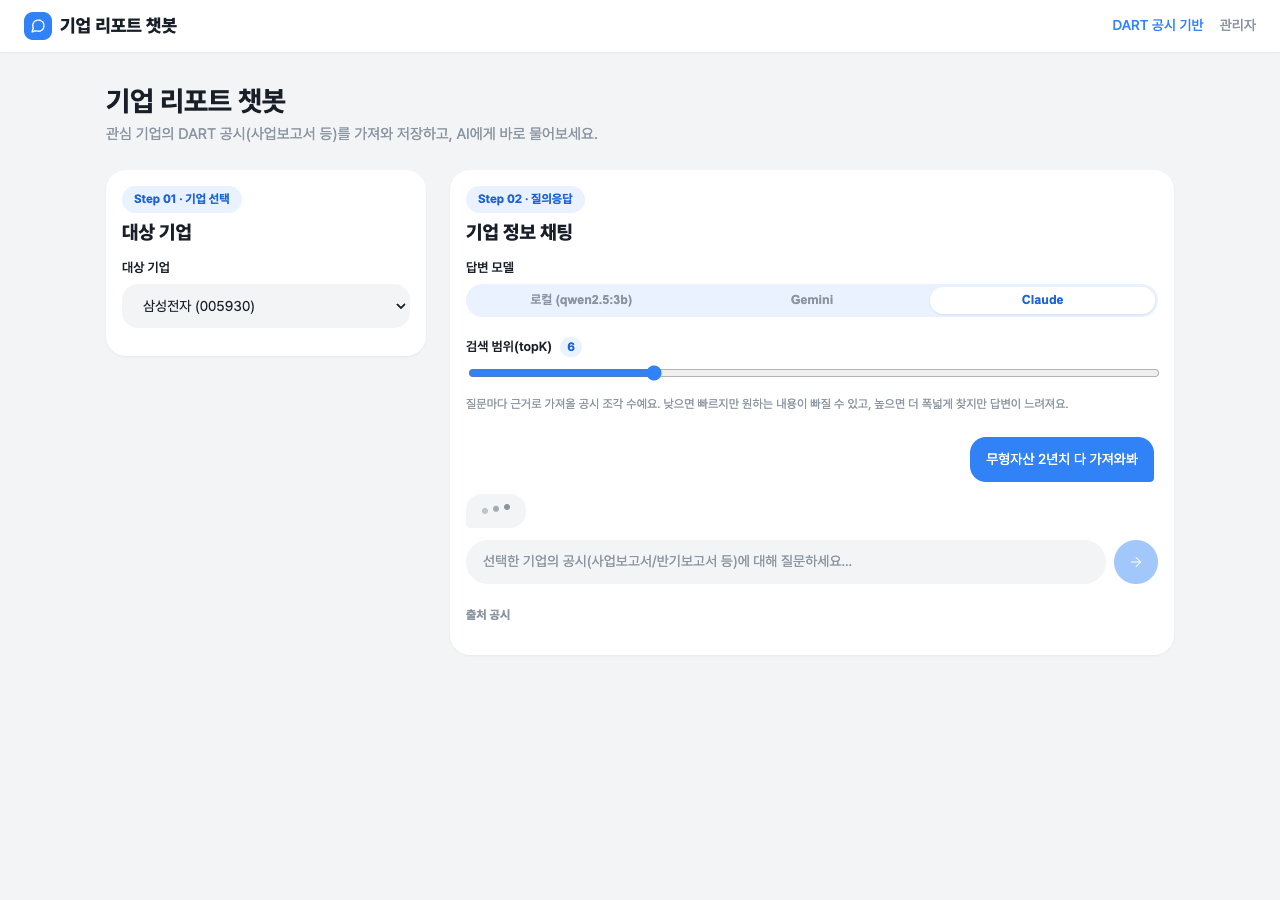
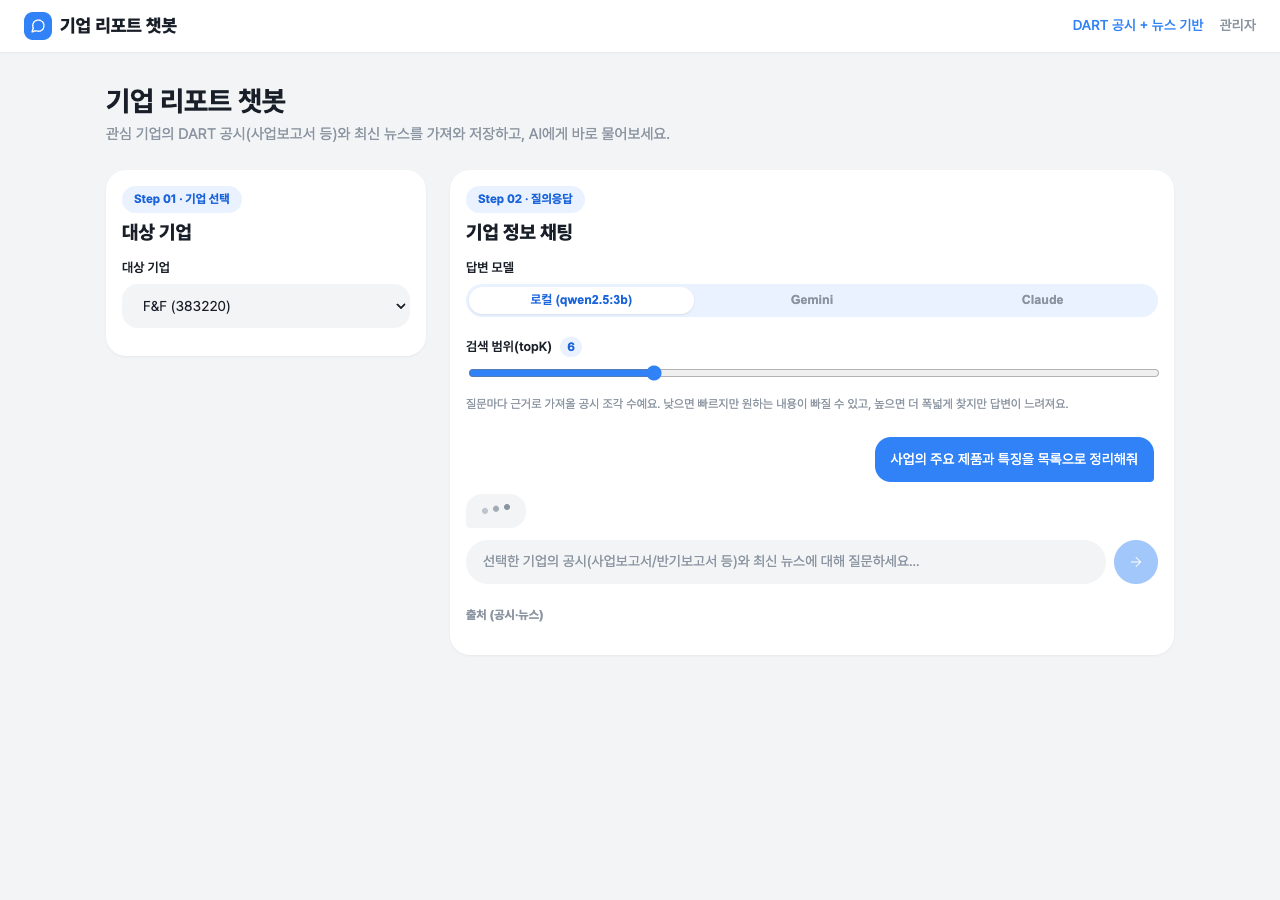
docs: README 텍스트 축약 및 스크린샷을 F&F 기준으로 교체
인트로/아키텍처/검색 전략/참고 섹션의 장문 설명을 불릿 위주로 압축하고,
스크린샷 5장을 전부 F&F 기준 화면으로 다시 캡처해 삼성전자 캡처를 제거.

diff --git a/README.md b/README.md
@@ -1,50 +1,38 @@
 # 기업 리포트 챗봇(RAG)
 
-DART 전자공시(사업보고서/반기보고서/분기보고서 + 지분공시)와 관련 뉴스 기사를 근거로
-관심 기업에 대해 질의응답하는 RAG 챗봇입니다. 워치리스트에 등록된 기업의 공시를 DART
-Open API에서, 뉴스는 네이버 뉴스 검색결과 페이지에서(공식 API 키 불필요) 가져와
-기업별로 분리된 벡터스토어(Neo4j)에 함께 색인하고, 채팅 시 해당 기업의 공시+뉴스
-내용만 근거로 답변합니다. 지분공시 제출인 관계와 뉴스 기사-언론사 관계는 같은 Neo4j에
-그래프로도 구성해서, 벡터 유사도 검색(Vector Retriever)만으로는 못 푸는 집계/랭킹/
-멀티홉 질문은 LLM이 그 자리에서 생성한 Cypher(Text2Cypher)로 답합니다. 대화 히스토리를
-참고해 후속 질문을 재작성하고, 로컬(Ollama)/Gemini/Claude(로그인된 Claude Code CLI)
-중 답변 모델을 선택해 품질을 비교할 수 있습니다. 답변은 표/목록/굵게 등이 그대로
-보이도록 마크다운으로 렌더링되고, 응답을 기다리는 동안에는 타이핑 인디케이터가
-표시됩니다.
+DART 전자공시(사업/반기/분기보고서 + 지분공시)와 관련 뉴스를 근거로 관심 기업에
+답변하는 RAG 챗봇입니다. 공시는 DART API, 뉴스는 네이버 검색결과 페이지(API 키
+불필요)에서 가져와 기업별 Neo4j 벡터 인덱스에 함께 저장합니다. 지분공시 제출인과
+뉴스 기사 관계는 그래프로도 저장해서, 벡터 검색(Vector Retriever)만으로 안 되는
+집계·랭킹 질문은 LLM이 즉석에서 만든 Cypher(Text2Cypher)로 답합니다. 로컬(Ollama)/
+Gemini/Claude 중 답변 모델을 골라 비교할 수 있고, 답변은 마크다운으로 렌더링됩니다.
 
 ## 사용 화면
 
 ![답변 모델(로컬/Gemini/Claude) 토글, 검색 범위(topK) 조절, 마크다운으로 렌더링된 답변(표/목록/굵게)](docs/screenshots/02-chat-controls.png)
 
-기업을 선택하고 최신 공시를 색인한 뒤, 선택한 기업의 공시 내용에 대해 자유롭게
-질문하면 답변과 함께 근거가 된 공시(회사명/보고서명/접수번호/섹션)를 보여줍니다.
-채팅창 상단에서 답변 모델(로컬 qwen2.5:3b / Gemini / Claude)과 검색 범위(topK)를
-직접 조절할 수 있고, 이전 대화는 브라우저에 저장되어 후속 질문에 참고됩니다. 답변에
-표나 목록이 포함되어 있으면 마크다운으로 그대로 렌더링됩니다.
+기업을 고르고 질문하면 답변과 함께 근거 공시(회사명/보고서명/접수번호/섹션)를
+보여줍니다. 답변 모델(로컬/Gemini/Claude)과 검색 범위(topK)를 조절할 수 있고,
+표/목록이 포함된 답변은 마크다운으로 렌더링됩니다.
 
 ![응답을 기다리는 동안 표시되는 타이핑 인디케이터](docs/screenshots/04-response-loading.png)
 
-질문을 보내면 답변이 도착하기 전까지 채팅창에 타이핑 인디케이터(점 3개)가 표시되어
-현재 답변을 생성 중임을 알려줍니다.
+답변 생성 중에는 타이핑 인디케이터(점 3개)가 표시됩니다.
 
 ![관리자 페이지 - DART 공시 자동 색인 및 저장된 데이터 확인](docs/screenshots/03-admin.png)
 
-관리자 페이지(`/admin.html`)에서는 워치리스트 전체 기업의 정기공시+지분공시를 한
-번에 가져오고, 실제로 Neo4j에 저장된 청크를 기업/유형별로 필터링해서 직접 확인할
-수 있습니다. PDF 직접 업로드와 지분공시 제출인/관련기업 그래프 탐색도 같은 페이지
-안에서 할 수 있습니다.
+관리자 페이지(`/admin.html`)에서 공시를 한 번에 가져오고, Neo4j에 저장된 청크를
+기업/유형별로 확인할 수 있습니다. PDF 업로드와 지분공시 그래프 탐색도 여기서.
 
 ![뉴스가 근거로 잡힌 채팅 답변 - 출처에 "뉴스" 태그와 클릭 가능한 기사 링크 표시](docs/screenshots/05-chat-news-sources.png)
 
-뉴스 관련 질문("갤럭시 S26 FE 가격 관련 뉴스 3개만 알려줘")을 하면 공시뿐 아니라
-색인된 실제 뉴스 기사가 근거로 잡히고, 출처 목록에서 뉴스 항목은 "뉴스" 태그와 함께
-원문 기사 URL이 새 탭으로 열리는 링크로 표시됩니다.
+뉴스 질문("F&F 디스커버리 관련 뉴스 3개만 알려줘")을 하면 실제 뉴스 기사가
+근거로 잡히고, 출처에 "뉴스" 태그와 원문 링크가 함께 표시됩니다.
 
 ![관리자 페이지 - 색인 데이터 뷰어를 "뉴스" 유형으로 필터링한 화면, 기사 URL이 클릭 가능한 링크로 표시됨](docs/screenshots/06-admin-news-viewer.png)
 
-관리자 페이지의 "저장된 데이터 보기"에서 유형을 "뉴스"로 필터링하면 색인된 기사
-목록(언론사/제목/발행일/본문 미리보기)을 확인할 수 있고, 기사 URL도 링크로 클릭해
-원문으로 바로 이동할 수 있습니다.
+유형을 "뉴스"로 필터링하면 색인된 기사 목록을 확인하고, URL을 클릭해 원문으로
+바로 이동할 수 있습니다.
 
 ## 아키텍처
 
@@ -62,33 +50,17 @@ flowchart LR
     BE <-- "③ 임베딩 · 답변 생성" --> LLM
 ```
 
-색인 단계(①)는 DART 공시와 네이버 뉴스를 가져와 청크로 쪼갠 뒤 Neo4j에 저장하고,
-채팅 단계(②③)는 질문을 임베딩해 Neo4j에서 근거를 찾고(필요하면 Cypher도 생성해서
-그래프까지 탐색) LLM으로 답변을 만듭니다. 아래는 각 단계를 조금 더 풀어서 설명한
-흐름입니다 — 세부 클래스명이 궁금할 때만 참고하면 됩니다.
-
-색인 흐름: DART에서 공시 원문(XML)을 받아 목차 단위로 분해 → 기업/공시 메타데이터를
-태깅 → 토큰 단위로 청킹 → 기업별로 분리된 Neo4j 라벨/인덱스(`CompanyReportChunk_{corpCode}`)에
-저장. 지분공시(대량보유상황보고서, 임원·주요주주소유보고서)는 별도로 제출인(Filer)-공시(Report)-
-기업(Company) 그래프에도 기록됩니다. 같은 공시 파일은 해시로 비교해 변경이 없으면
-재색인하지 않습니다(DART API 일일 호출 제한 대응).
-
-뉴스 색인 흐름: 워치리스트 기업명으로 네이버 뉴스 검색결과 페이지를 직접 파싱해
-(`NaverSearchScraper`, 공식 API 키 불필요) 기사 URL을 모으고, 기사 페이지에서 본문을
-크롤링(`NaverArticleScraper`)해 청킹한 뒤 **같은 기업 전용 벡터 인덱스에 `doc_type=NEWS`로
-합류**시킵니다 — 별도 인덱스가 아니라 정기공시/지분공시 청크와 같은 라벨을 공유해서,
-채팅 시 공시와 뉴스가 함께 검색 후보가 됩니다. 기사-언론사-기업 관계는 지분공시 그래프와
-같은 `Company` 노드를 재사용해 Neo4j에 함께 기록되고, 기사 URL을 유일키로 한 사이드카
-파일(`data/news-index.json`)로 중복 수집을 막습니다.
-
-채팅 흐름: 브라우저에 저장된 최근 대화가 있으면 먼저 LLM으로 후속 질문을 독립형 질문으로
-재작성 → 해당 기업 전용 벡터 인덱스에서 유사도 검색(**Vector Retriever**, 다른 기업
-데이터가 섞이지 않음, "뉴스"/"기사" 키워드가 있으면 `doc_type=NEWS`로 필터링) →
-집계·랭킹·멀티홉처럼 고정 조회로 못 푸는 그래프 질문이면 LLM이 그 자리에서 Cypher를
-생성해 읽기 전용으로 실행(**Text2Cypher**, 실패/미해당 시 최근 지분공시 제출인 고정
-조회로 폴백) → 두 근거를 합쳐 답변 생성. 로컬(Ollama qwen2.5:3b), Gemini, Claude(로그인된
-`claude -p` CLI를 서브프로세스로 호출 — API 키 불필요, claude.ai 구독 계정 로그인 그대로
-사용) 중 선택해서 같은 질문의 답변 품질을 비교할 수 있습니다.
+- **① 공시·뉴스 수집**: DART 공시(XML)는 목차 단위로 분해, 뉴스는 네이버 검색결과·
+  기사 페이지를 파싱(API 키 불필요)해서 본문을 가져옵니다. 둘 다 청킹 후 같은 기업
+  전용 Neo4j 인덱스에 저장되고(뉴스는 `doc_type=NEWS`로 구분), 지분공시 제출인/뉴스
+  기사-언론사 관계는 그래프로도 함께 기록됩니다. 변경 없는 공시·이미 수집한 기사
+  URL은 재수집하지 않습니다.
+- **② 검색**: 질문을 임베딩해 기업 전용 인덱스에서 유사도 검색(Vector Retriever,
+  뉴스 키워드면 `doc_type=NEWS`로 필터). 집계·랭킹처럼 벡터 검색만으로 안 되는
+  그래프 질문이면 LLM이 즉석에서 Cypher를 생성해 실행(Text2Cypher), 실패하면 고정
+  조회로 폴백합니다.
+- **③ 답변**: 대화 히스토리가 있으면 먼저 후속 질문을 독립형으로 재작성한 뒤, 위
+  검색 결과를 근거로 로컬(Ollama)/Gemini/Claude 중 선택한 모델이 답변을 생성합니다.
 
 ## 그래프 DB 스키마
 
@@ -115,31 +87,21 @@ graph LR
   연결, 실제 본문이 담긴 벡터 청크 노드에 `HAS_CHUNK`(본문 청크)로 연결
 - **Media (언론사)**: 언론사, `Article`에 `PUBLISHED`(보도했다)로 연결
 
-이 스키마는 `CompanyChatService`의 Text2Cypher 라우터 프롬프트에 그대로 포함되어,
-LLM이 스키마를 보고 직접 Cypher를 생성합니다.
+이 스키마는 Text2Cypher 라우터 프롬프트에 그대로 포함되어 LLM이 보고 Cypher를 생성합니다.
 
 ## 검색 전략: Vector Retriever + Text2Cypher
 
-[graphrag-tools-retriever](https://github.com/gongwon-nayeon/graphrag-tools-retriever)의 `ToolsRetriever`(Vector /
-VectorCypher / Text2Cypher를 통합해 질문에 맞는 검색 방식을 고르는 구조)에서 아이디어를
-가져와, 이 프로젝트는 매 질문마다 두 가지 검색을 함께 수행하고 그 결과를 합쳐서
-답변합니다.
+[graphrag-tools-retriever](https://github.com/gongwon-nayeon/graphrag-tools-retriever)의
+`ToolsRetriever`(검색 방식을 통합하는 구조)에서 아이디어를 가져와, 매 질문마다 두
+검색을 함께 씁니다.
 
-1. **Vector Retriever** — 질문(또는 재작성된 후속 질문)을 임베딩해 기업 전용 Neo4j
-   벡터 인덱스에서 코사인 유사도 상위 topK개 청크를 가져옵니다. 공시와 뉴스 청크가 같은
-   인덱스에 섞여 있어서, "뉴스"/"기사"/"언론" 키워드가 있으면 `doc_type='NEWS'`
-   메타데이터 필터를 추가로 겁니다. (Neo4j 벡터스토어의 필터는 ANN 검색 이후 후보군에
-   대한 post-filter라, 필터가 걸릴 땐 후보군을 200개로 넉넉히 가져온 뒤 원하는 개수만큼
-   잘라 씁니다 — 안 그러면 상위 topK 후보에 뉴스 청크가 하나도 안 걸려 필터 후 0건이
-   되는 경우가 있습니다.)
-2. **Text2Cypher** — 위 벡터 검색과 별개로, 답변에 쓰기로 선택된 LLM(local/gemini/
-   claude)에게 그래프 스키마와 질문을 주고 Cypher 쿼리를 생성시킵니다. 집계·랭킹·비교·
-   교집합·역방향 조회처럼 벡터 유사도만으로 못 푸는 질문(예: "지분공시를 가장 많이 낸
-   제출인은?")에 쓰이고, 그래프 탐색이 필요 없으면 LLM이 `NONE`을 반환합니다. 생성된
-   쿼리는 읽기 전용 세션(`AccessMode.READ`)으로만 실행되고, 쓰기 구문(`CREATE`/`MERGE`/
-   `DELETE`/`SET`/`LOAD CSV` 등)이 섞여 있으면 정규식으로 걸러 실행하지 않습니다. 쿼리
-   생성/실행이 실패하거나 결과가 없으면 최근 지분공시 제출인 목록(`findFilers` 고정
-   조회)으로 안전하게 폴백합니다.
+1. **Vector Retriever** — 질문을 임베딩해 기업 전용 인덱스에서 유사도 상위 topK개
+   청크 조회. "뉴스/기사" 키워드가 있으면 `doc_type='NEWS'` 필터를 추가로 걸되, Neo4j
+   필터가 ANN 검색 이후 적용되는 post-filter라 후보군을 넉넉히(200개) 가져온 뒤 잘라
+   씁니다(안 그러면 후보에 뉴스가 하나도 안 걸려 0건이 될 수 있음).
+2. **Text2Cypher** — 집계·랭킹처럼 벡터 검색만으로 안 되는 그래프 질문이면 LLM이
+   스키마를 보고 Cypher를 생성해 읽기 전용으로 실행. 쓰기 구문은 정규식으로 차단하고,
+   생성 실패나 결과 없음이면 고정 조회(`findFilers`)로 폴백합니다.
 
 ## 기술 스택
 
@@ -325,27 +287,20 @@ frontend/
 
 ## 참고
 
-- 워치리스트는 `WatchedCompany.ALL`에 하드코딩되어 있습니다 (현재: 삼성전자, F&F).
-  다른 기업을 추가하려면 DART 고유번호(`corp_code`)를 찾아 목록에 추가하면 됩니다.
-- DART `document.xml` 원본만 다루며, `pdf.do`(브라우저 세션 기반 비공개 엔드포인트)는
-  API로 안정적으로 받을 수 없어 지원하지 않습니다.
-- 대화 히스토리는 브라우저 IndexedDB에 기업(corp_code)별로 저장됩니다. 브라우저
-  데이터를 지우거나 다른 브라우저/기기로 접속하면 히스토리는 보이지 않습니다(서버에는
-  저장하지 않음).
-- qwen2.5:3b는 3B급 소형 모델이라 후속 질문 재작성/답변 품질이 완벽하지 않을 수
-  있습니다 — 이럴 때 Gemini/Claude 옵션으로 같은 질문을 비교해보는 용도입니다.
-- Claude 옵션은 매 질문마다 `claude -p` 프로세스를 새로 띄우기 때문에 로컬/Gemini
-  보다 느립니다(수 초~수십 초). 또 별도 API 과금이 아니라 이 CLI가 로그인된
-  claude.ai 계정의 사용량(플랜 한도)을 그대로 씁니다.
-- 뉴스는 네이버 공식 뉴스검색 API(클라우드 플랫폼 키 발급) 대신 검색결과/기사 페이지를
-  직접 파싱합니다 — API 키 없이 바로 쓸 수 있지만, 네이버가 페이지 구조를 바꾸면
-  셀렉터(`NaverSearchScraper`/`NaverArticleScraper`)를 다시 손봐야 할 수 있습니다.
-- 뉴스 수집은 기업당 최근 `news.articles-per-company`(기본 20)건까지만 가져오고,
-  이미 색인된 기사 URL은 `data/news-index.json`에 기록해 재수집 시 건너뜁니다.
-- `GET /api/admin/indexed-chunks`가 반환하는 `textPreview`는 본문 앞 200자만 잘라서
-  보여주는 미리보기입니다. 실제 청크 본문 전체는 Neo4j에 그대로 저장되어 있고,
-  채팅 답변 생성 시에는 전체 청크 텍스트가 근거로 쓰입니다.
-- 이 프로젝트의 뉴스 스크래핑 셀렉터와 그래프 스키마 설계는 참고 프로젝트
-  [graphrag-tools-retriever](https://github.com/gongwon-nayeon/graphrag-tools-retriever)
-  (네이버 뉴스 GraphRAG, Vector/VectorCypher/Text2Cypher 통합 `ToolsRetriever`)에서
+- 워치리스트는 `WatchedCompany.ALL`에 하드코딩(현재: 삼성전자, F&F). 기업 추가는
+  DART `corp_code`를 목록에 넣으면 됩니다.
+- DART `document.xml` 원본만 지원(`pdf.do`는 API로 안정적으로 못 받아 미지원).
+- 대화 히스토리는 브라우저 IndexedDB에 기업별로 저장(서버 미저장) — 브라우저/기기가
+  바뀌면 히스토리는 안 보입니다.
+- qwen2.5:3b는 소형 모델이라 답변 품질이 완벽하지 않을 수 있어 Gemini/Claude와
+  비교용으로 씁니다. Claude 옵션은 매 질문마다 CLI를 새로 띄워 느리고(수 초~수십 초),
+  API 과금이 아니라 로그인된 claude.ai 계정의 사용량을 그대로 씁니다.
+- 뉴스는 네이버 공식 API 대신 검색결과/기사 페이지를 직접 파싱합니다 — 키는 필요
+  없지만 페이지 구조가 바뀌면 셀렉터를 다시 손봐야 할 수 있습니다. 기업당 최근
+  `news.articles-per-company`(기본 20)건까지만 가져오고, 이미 수집한 URL은
+  `data/news-index.json`으로 걸러냅니다.
+- `GET /api/admin/indexed-chunks`의 `textPreview`는 본문 앞 200자 미리보기이고,
+  실제 채팅 답변에는 전체 청크 텍스트가 쓰입니다.
+- 뉴스 스크래핑/그래프 스키마 설계는 참고 프로젝트
+  [graphrag-tools-retriever](https://github.com/gongwon-nayeon/graphrag-tools-retriever)에서
   아이디어를 가져왔습니다.
